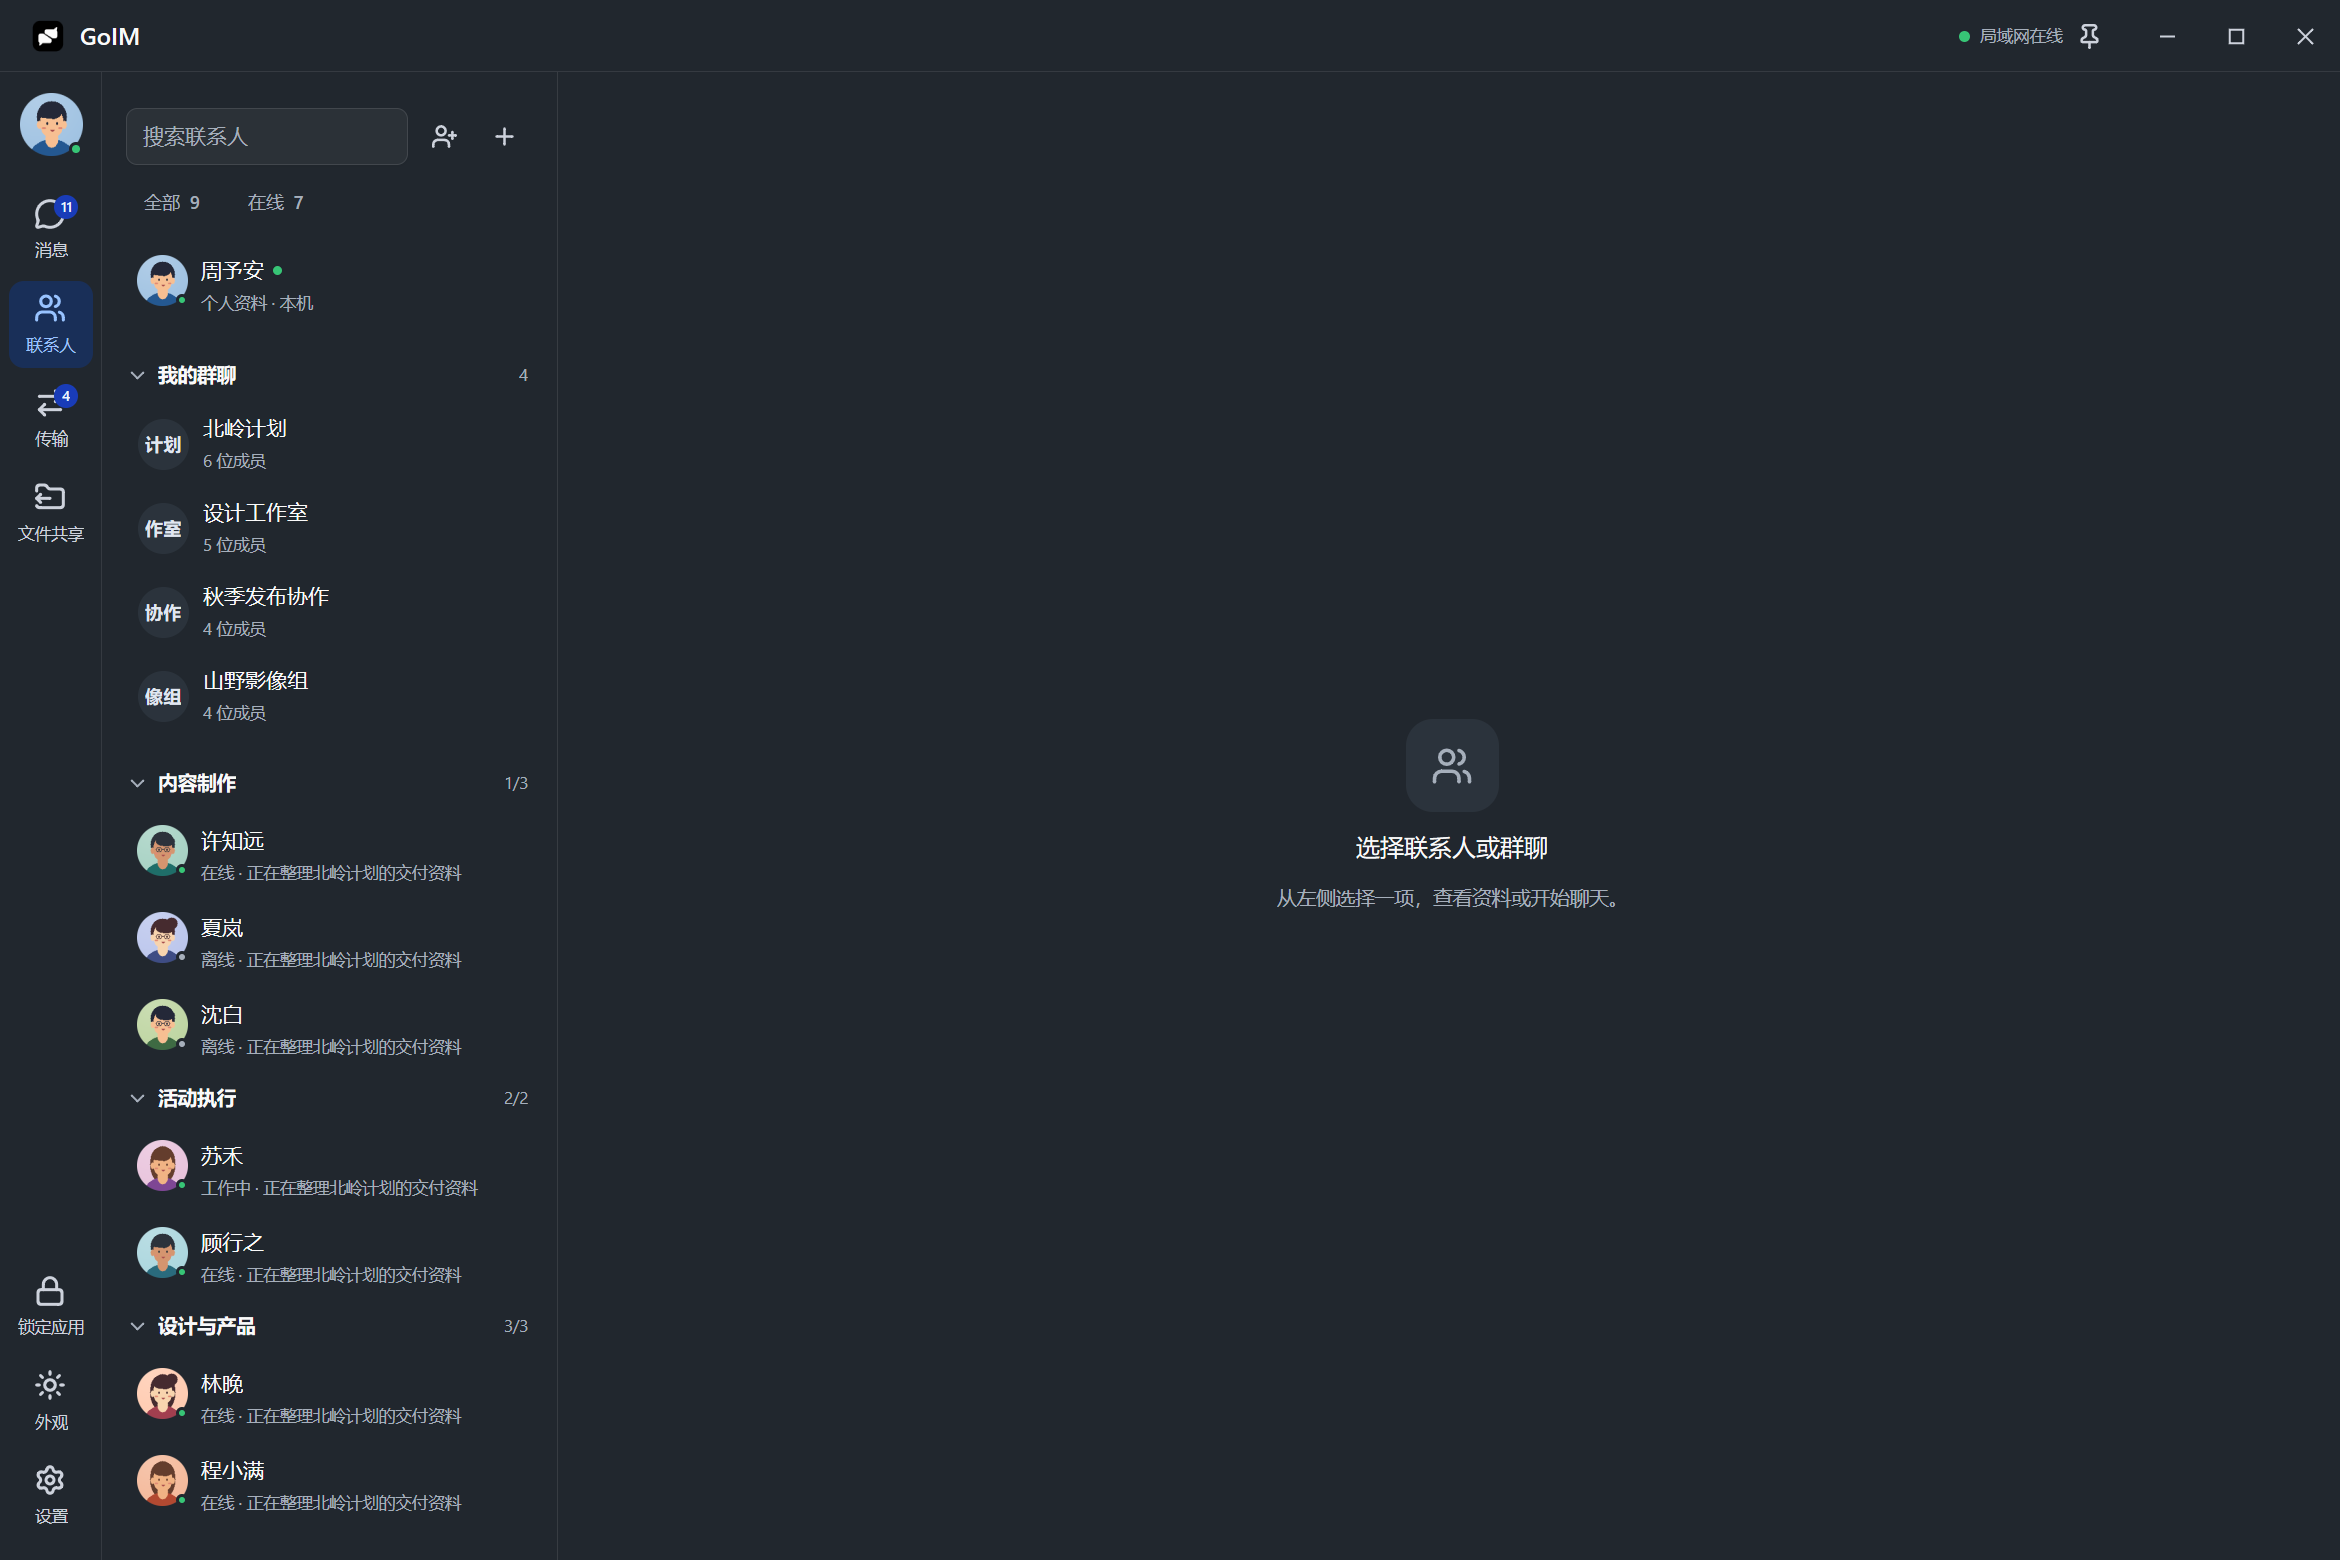
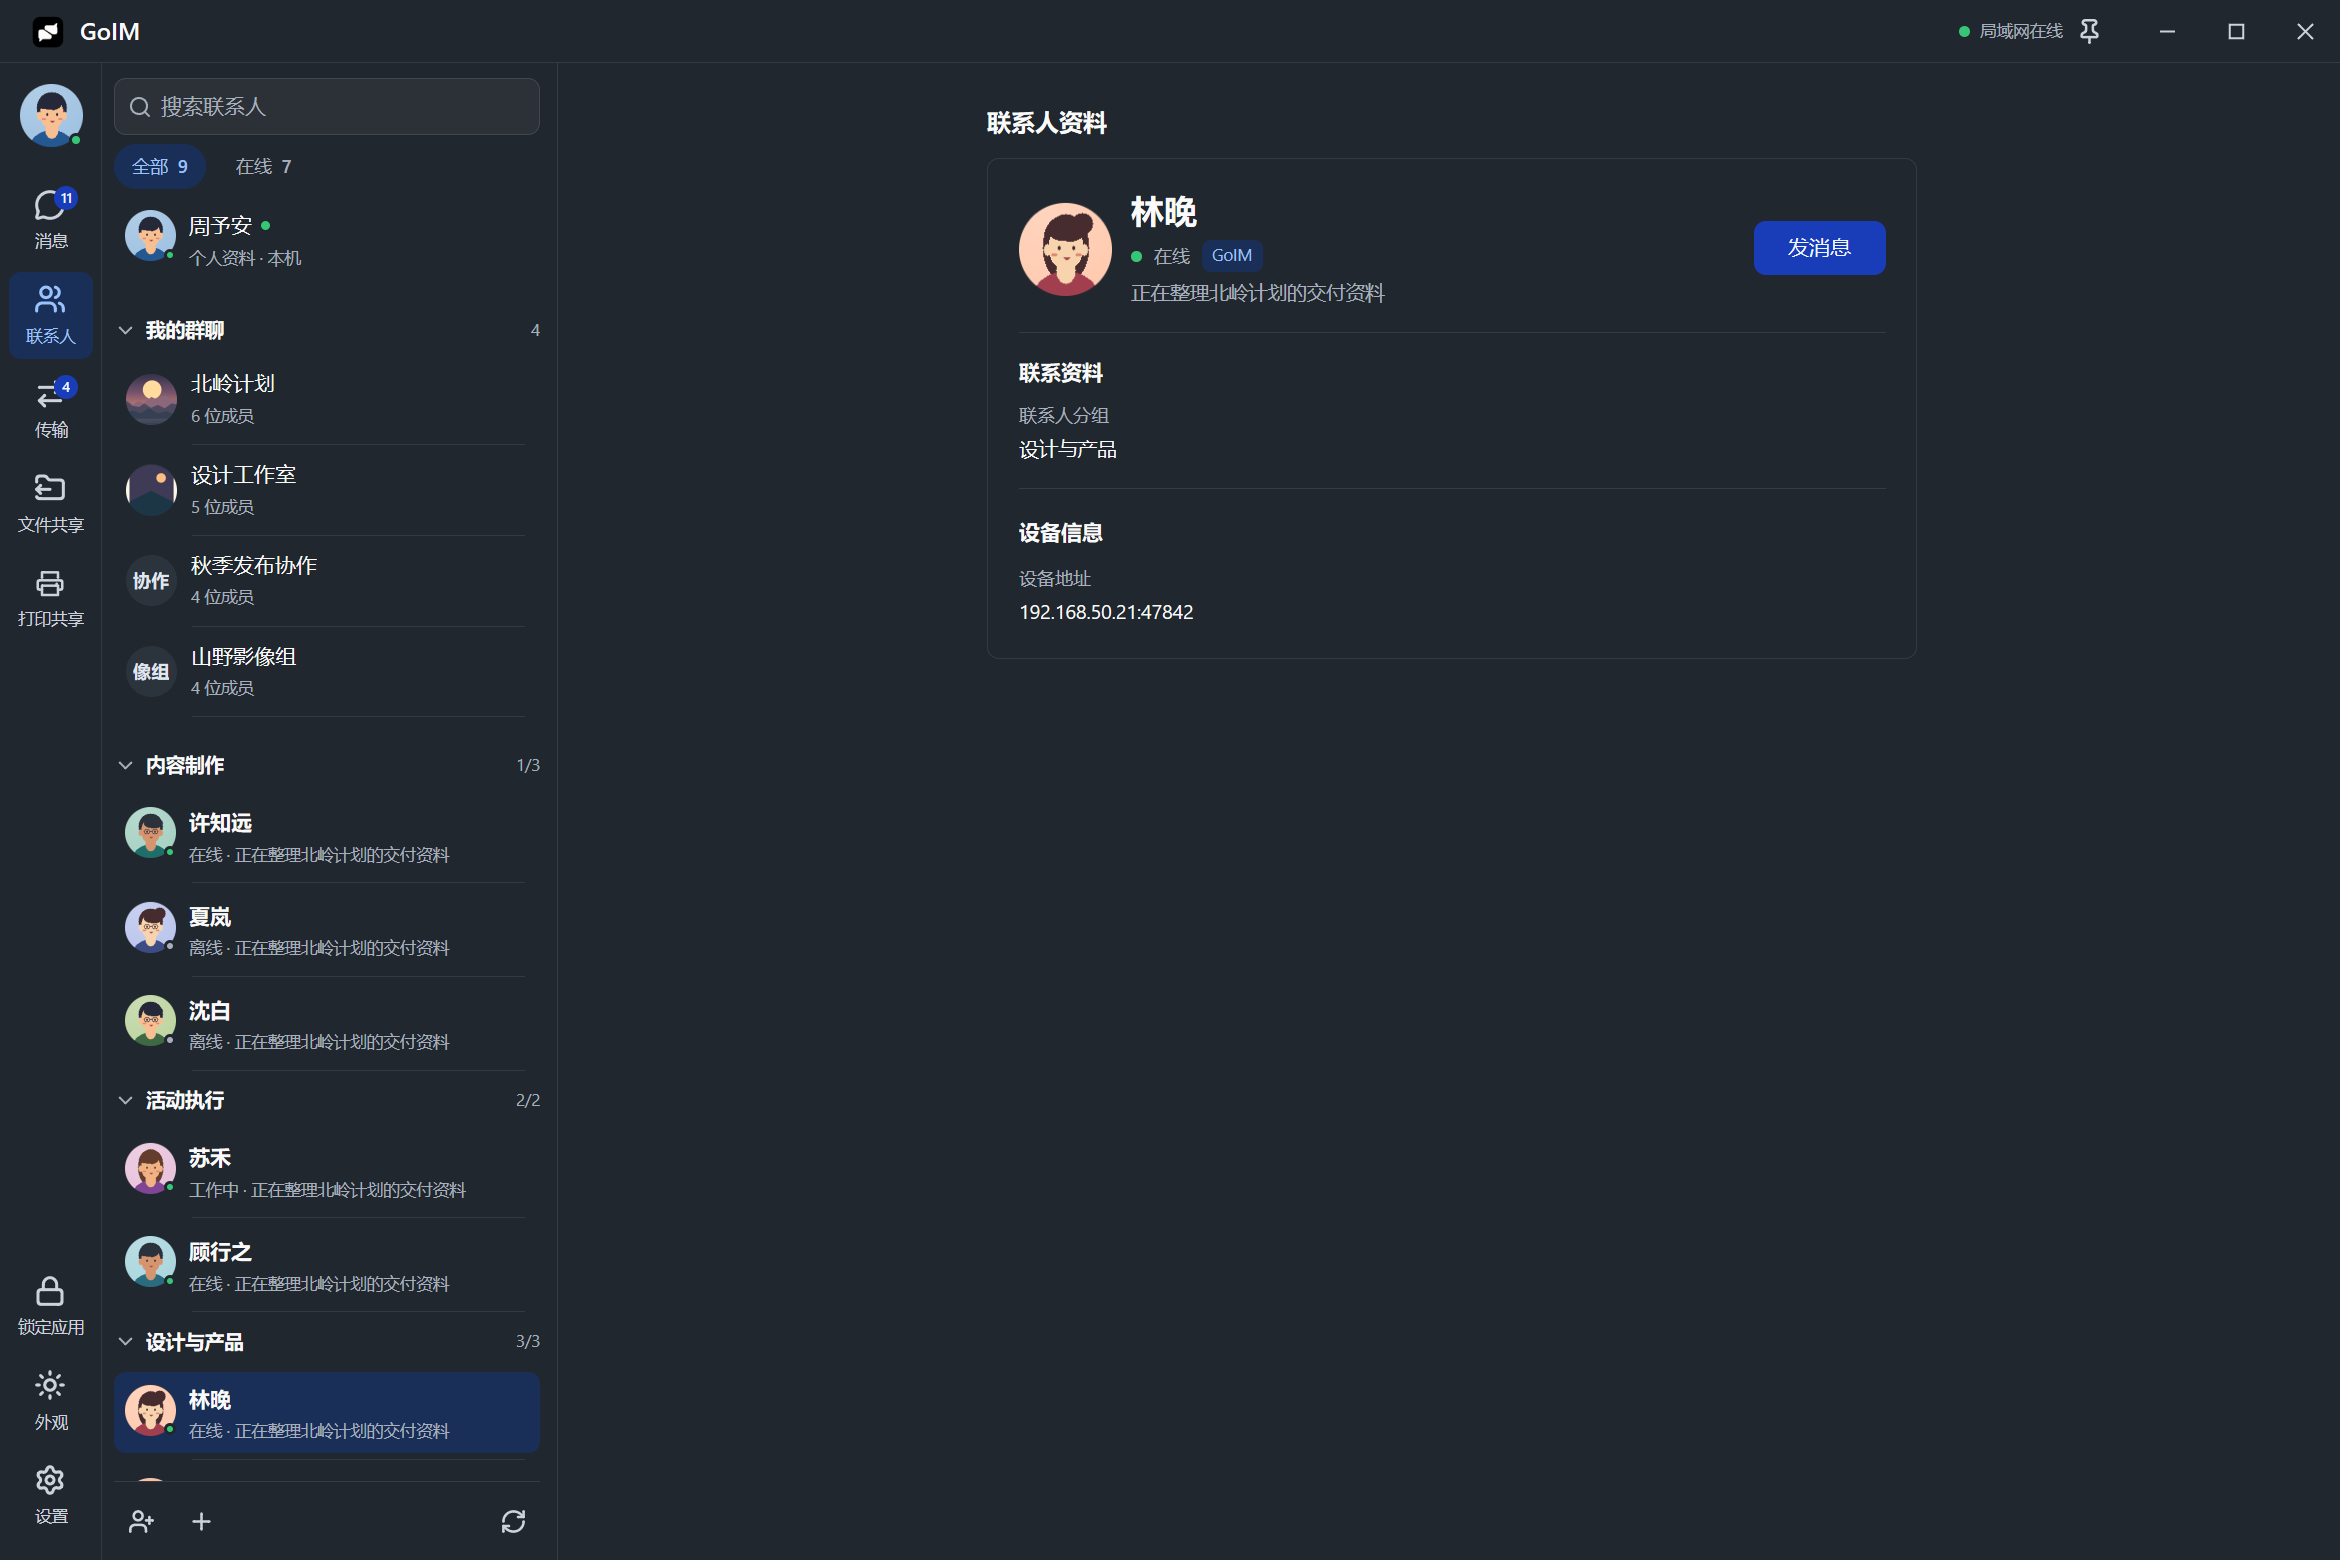
Pin contact and conversation sidebar actions below the results
Closes #6

diff --git a/internal/desktop/promo_screenshot_test.go b/internal/desktop/promo_screenshot_test.go
@@ -145,7 +145,8 @@ func TestPromoScreenshots(t *testing.T) {
 	shot("chat-light")
 
 	click(shell.ids.navContacts)
-	for _, label := range []string{"联系人", "设计与产品", "内容制作", "林晚", "许知远", "周予安"} {
+	click(shell.peerRowIDs["lin"])
+	for _, label := range []string{"联系人资料", "设计与产品", "内容制作", "林晚", "许知远", "周予安"} {
 		waitText(label)
 		if err := session.Expect("text", label); err != nil {
 			t.Fatal(err)
@@ -230,14 +231,19 @@ func promoState(t *testing.T) domain.State {
 			Presence: presence, Signature: "正在整理北岭计划的交付资料",
 		})
 	}
+	posterPath := filepath.Join(dir, "visual.png")
+	ridgeAvatar := filepath.Join(dir, "ridge-avatar.png")
+	gridPath := filepath.Join(dir, "grid.png")
+	writePromoPoster(t, posterPath, ridgeAvatar)
+	writePromoGrid(t, gridPath)
 	state.Groups = []domain.Group{
-		{ID: "north-team", Name: "北岭计划", OwnerID: "lin", Members: []string{"self", "lin", "xu", "su", "chen", "xia"}, Epoch: 1},
-		{ID: "design-team", Name: "设计工作室", OwnerID: "self", Members: []string{"self", "lin", "xu", "su", "gu"}, Epoch: 1},
+		{ID: "north-team", Name: "北岭计划", Avatar: ridgeAvatar, OwnerID: "lin", Members: []string{"self", "lin", "xu", "su", "chen", "xia"}, Epoch: 1},
+		{ID: "design-team", Name: "设计工作室", Avatar: gridPath, OwnerID: "self", Members: []string{"self", "lin", "xu", "su", "gu"}, Epoch: 1},
 		{ID: "launch-team", Name: "秋季发布协作", OwnerID: "chen", Members: []string{"self", "chen", "cheng", "xia"}, Epoch: 1},
 		{ID: "photo-team", Name: "山野影像组", OwnerID: "shen", Members: []string{"self", "shen", "xia", "lin"}, Epoch: 1},
 	}
 	state.Conversations = []domain.Conversation{
-		{ID: "north", Kind: "group", GroupID: "north-team", Title: "北岭计划", Pinned: true, Preview: "苏禾：收到，下午按这版走。", UpdatedAt: at(0)},
+		{ID: "north", Kind: "group", GroupID: "north-team", Title: "北岭计划", Pinned: true, Preview: "苏禾：清单收到了，下午按这版走。", UpdatedAt: at(0)},
 		{ID: "design", Kind: "group", GroupID: "design-team", Title: "设计工作室", Pinned: true, Unread: 3, Preview: "林晚：色板我更新到文件里了", UpdatedAt: at(-3)},
 		{ID: "c-su", Kind: "direct", PeerID: "su", Unread: 2, Preview: "两版排版都发你了", UpdatedAt: at(-7)},
 		{ID: "launch", Kind: "group", GroupID: "launch-team", Title: "秋季发布协作", Unread: 5, Preview: "陈墨：发布排期已同步", UpdatedAt: at(-11)},
@@ -250,8 +256,6 @@ func promoState(t *testing.T) domain.State {
 		{ID: "c-xia", Kind: "direct", PeerID: "xia", Preview: "路上信号不好，回去传原图", UpdatedAt: at(-86)},
 	}
 
-	posterPath := filepath.Join(dir, "visual.png")
-	writePromoPoster(t, posterPath)
 	stat, err := os.Stat(posterPath)
 	if err != nil {
 		t.Fatal(err)
@@ -276,8 +280,7 @@ func promoState(t *testing.T) domain.State {
 		path := ""
 		// Only files actually previewed or marked locally available need an asset.
 		if item.id == "grid" {
-			path = filepath.Join(dir, "grid.png")
-			writePromoGrid(t, path)
+			path = gridPath
 			stat, err := os.Stat(path)
 			if err != nil {
 				t.Fatal(err)

diff --git a/internal/desktop/app.go b/internal/desktop/app.go
@@ -1603,26 +1603,15 @@ func (u *UI) railItemBadged(f ui.C, id gfx.ID, icon gfx.Icon, label string,
 
 func (u *UI) drawSidebar(canvas *gfx.Canvas, bounds ui.Rect) {
 	canvas.Fill(bounds, u.palette.sidebar)
-	var connect, create ui.Box
+	var connect, create, refresh bool
 	u.sidebarPage.Draw(canvas, bounds, func(f ui.C) {
-		ui.Column(f).Fill().PadSides(24, 16, 14, 16).Children(func() {
-			ui.Row(f).Height(38).Items(ui.Center).Gap(8).Children(func() {
-				ui.TextFieldID(f, u.ids.sidebarSearch, &u.sidebarSearch, i18n.T("搜索"), u.searchPlaceholder()).
-					Height(38).Grow(1)
-				connect = u.iconButton(f, u.ids.sidebarConnect, u.iconUserPlus, i18n.T("手动连接"), 32)
-				create = u.iconButton(f, u.ids.sidebarCreate, u.iconPlus, i18n.T("创建群聊"), 32)
-				if u.section == sectionContacts {
-					refresh := u.iconButton(f, u.ids.sidebarRefresh, u.iconRefresh, i18n.T("刷新联系人"), 32)
-					if refresh.Clicked() {
-						u.submit(domain.Command{Kind: domain.RefreshContacts})
-						u.showToast(i18n.T("正在刷新局域网联系人"), "", components.ToastInfo)
-					}
-				}
-			})
-			ui.Row(f).Height(10)
+		ui.Column(f).Fill().PadSides(10, 8, 4, 8).Children(func() {
+			ui.TextFieldID(f, u.ids.sidebarSearch, &u.sidebarSearch, i18n.T("搜索"), u.searchPlaceholder()).
+				Icon(u.iconSearch).FillWidth().Height(38)
+			ui.Row(f).Height(6)
 			if u.section == sectionContacts {
 				u.drawContactFilters(f)
-				ui.Row(f).Height(10)
+				ui.Row(f).Height(4)
 			}
 			ui.Scroll(f.Key(u.section)).Grow(1).Gap(4).
 				HitWith(u.ids.sidebarSurface, i18n.T("侧栏列表"),
@@ -1634,13 +1623,26 @@ func (u *UI) drawSidebar(canvas *gfx.Canvas, bounds ui.Rect) {
 						u.drawConversationList(f)
 					}
 				})
+			ui.Divider(f).FillWidth()
+			ui.Row(f).FillWidth().PadSides(max(8, 8*u.theme.Metrics.EffectiveTextScale()), 0, 4, 0).Items(ui.Center).Gap(4).Children(func() {
+				connect = u.iconButton(f, u.ids.sidebarConnect, u.iconUserPlus, i18n.T("手动连接"), 36).Clicked()
+				create = u.iconButton(f, u.ids.sidebarCreate, u.iconPlus, i18n.T("创建群聊"), 36).Clicked()
+				if u.section == sectionContacts {
+					ui.Spacer(f)
+					refresh = u.iconButton(f, u.ids.sidebarRefresh, u.iconRefresh, i18n.T("刷新联系人"), 36).Clicked()
+				}
+			})
 		})
 	})
-	if connect.Clicked() {
+	if connect {
 		u.openConnect()
 	}
-	if create.Clicked() {
+	if create {
 		u.openCompose("create", "")
+	}
+	if refresh {
+		u.submit(domain.Command{Kind: domain.RefreshContacts})
+		u.showToast(i18n.T("正在刷新局域网联系人"), "", components.ToastInfo)
 	}
 	if event, ok := canvas.PointerOn(u.ids.sidebarSurface); ok &&
 		event.Kind == gfx.PointerDown && event.Button == gfx.PointerButtonSecondary {

diff --git a/internal/desktop/chat_layout_test.go b/internal/desktop/chat_layout_test.go
@@ -13,6 +13,64 @@ import (
 	"goim/internal/domain"
 )
 
+func TestSidebarPinsSearchAndActionsAroundScrollingList(t *testing.T) {
+	for _, section := range []string{sectionMessages, sectionContacts} {
+		t.Run(section, func(t *testing.T) {
+			const height = 700
+			state := shellTestState(t)
+			state.Settings.LastSection = section
+			for i := 0; i < 24; i++ {
+				id := "extra-" + intString(i)
+				state.Peers = append(state.Peers, domain.Peer{ID: id, Name: id, Online: true})
+				state.Conversations = append(state.Conversations, domain.Conversation{ID: id, Kind: "direct", PeerID: id})
+			}
+			h := newShellTestHarnessAtSize(t, state, 1000, height)
+			bounds := func(id gfx.ID) ui.Rect {
+				t.Helper()
+				hit, ok := h.findHit(id)
+				if !ok {
+					t.Fatalf("missing sidebar control %v", id)
+				}
+				return hit.Bounds
+			}
+			ids := h.ui.ids
+			search, list := bounds(ids.sidebarSearch), bounds(ids.sidebarSurface)
+			if search.Bottom() > list.Y || search.X != list.X || search.Width != list.Width {
+				t.Fatalf("search %v must span the list %v above the results", search, list)
+			}
+			actions := []gfx.ID{ids.sidebarConnect, ids.sidebarCreate}
+			first := h.ui.convRowIDs["conv-group"]
+			if section == sectionContacts {
+				actions = append(actions, ids.sidebarRefresh)
+				first = ids.selfRow
+			}
+			checkFooter := func() {
+				t.Helper()
+				for _, id := range actions {
+					button := bounds(id)
+					if button.Y < list.Bottom() || button.Bottom() < height-16 || button.Bottom() > height {
+						t.Fatalf("action %v must stay below list %v at the window bottom", button, list)
+					}
+				}
+			}
+			checkFooter()
+			before := bounds(first)
+			if err := h.driver.Scroll(gfx.ScrollEvent{X: list.X + list.Width/2, Y: list.Y + list.Height/2, DeltaY: 900, Precise: true}); err != nil {
+				t.Fatal(err)
+			}
+			if after, ok := h.findHit(first); ok && after.Bounds == before {
+				t.Fatal("the long list did not scroll")
+			}
+			if bounds(ids.sidebarSearch) != search {
+				t.Fatal("the search field moved with the results")
+			}
+			checkFooter()
+			h.typeInto(ids.sidebarSearch, "no matching sidebar entry")
+			checkFooter()
+		})
+	}
+}
+
 type testWindowGeometry struct {
 	frame   ui.Rect
 	sizes   [][2]int

diff --git a/internal/desktop/promo_art_test.go b/internal/desktop/promo_art_test.go
@@ -18,7 +18,7 @@ import (
 
 // This is the group's fictional design attachment. Viva renders the artwork
 // and then renders it again as an ordinary image in the actual chat.
-func writePromoPoster(t *testing.T, path string) {
+func writePromoPoster(t *testing.T, path, avatarPath string) {
 	t.Helper()
 	const width, height = 720, 384
 	session, err := vivaheadless.Open(app.Config{
@@ -73,9 +73,12 @@ func writePromoPoster(t *testing.T, path string) {
 		t.Fatal(err)
 	}
 	defer session.Close()
-	if err := session.Screenshot(path); err != nil {
+	picture, err := session.Image()
+	if err != nil {
 		t.Fatal(err)
 	}
+	savePromoPNG(t, path, picture)
+	savePromoPNG(t, avatarPath, picture.SubImage(image.Rect(390, 20, 702, 332)))
 }
 
 // Illustrative portraits, not photographs of real people. Use distinct colors
@@ -149,14 +152,7 @@ func writePromoAvatar(t *testing.T, path string, index int) {
 			picture.SetNRGBA(x, y, pixel)
 		}
 	}
-	f, err := os.Create(path)
-	if err != nil {
-		t.Fatal(err)
-	}
-	defer f.Close()
-	if err := png.Encode(f, picture); err != nil {
-		t.Fatal(err)
-	}
+	savePromoPNG(t, path, picture)
 }
 
 func writePromoGrid(t *testing.T, path string) {
@@ -177,6 +173,11 @@ func writePromoGrid(t *testing.T, path string) {
 			picture.SetNRGBA(x, y, pixel)
 		}
 	}
+	savePromoPNG(t, path, picture)
+}
+
+func savePromoPNG(t *testing.T, path string, picture image.Image) {
+	t.Helper()
 	f, err := os.Create(path)
 	if err != nil {
 		t.Fatal(err)
